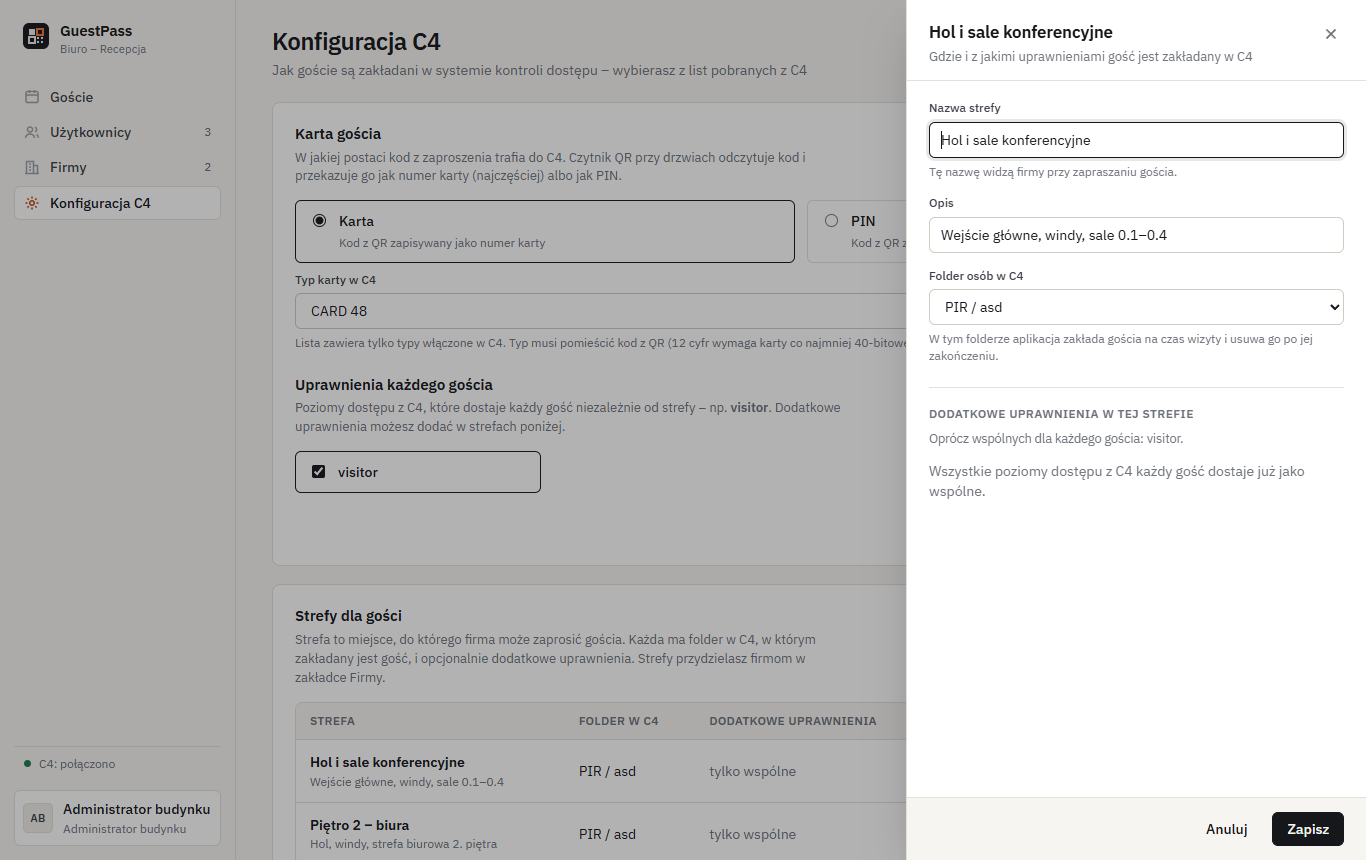
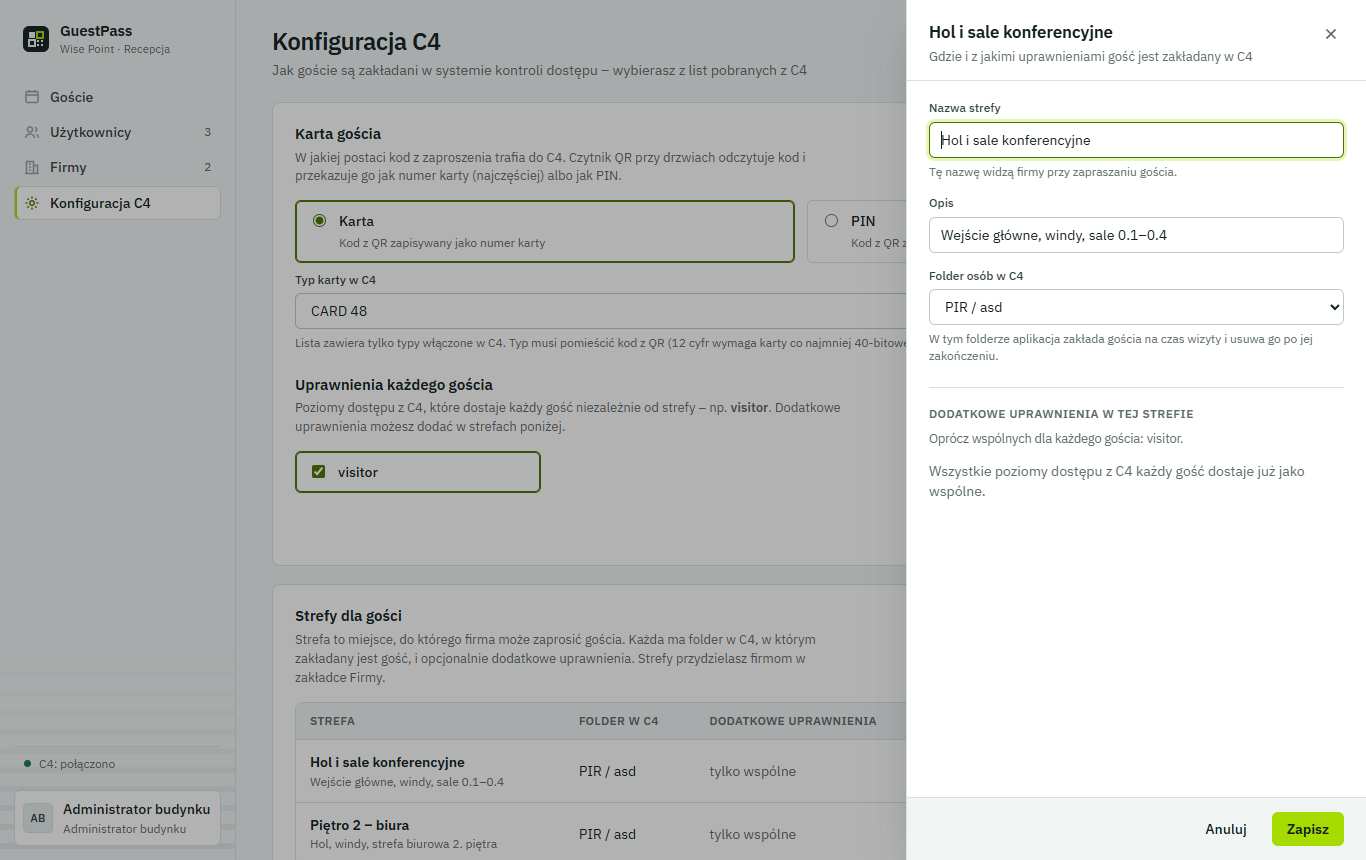
Wyglad inspirowany biurowcem Wise Point: motyw jasny i ciemny
- Paleta z budynku i marki: zielonkawo-szare szklo lukowej elewacji, jasny kamien,
  srebrne aluminium, limonkowy akcent Wise Point (#A6DB00). Jasny = "dzien",
  ciemny = "zmierzch" (granat szkla, bursztynowe okna). Kontrast WCAG AA w obu.
- Przelacznik motywu (Jasny / Ciemny / Jak w systemie) w menu konta i na ekranie
  logowania, zapamietywany w przegladarce, stosowany przed narysowaniem strony.
- Ekran logowania: niebo dnia/zmierzchu i wlasna ilustracja SVG lukowej fasady
  (pasy okien, kolumny parteru) zamiast zdjec objetych prawami autorskimi.
- Przyciski usuwania/cofniecia dostepu w osobnym stylu destrukcyjnym.
- Poprawki widoku mobilnego (tabele przewijane, dekoracja paska bocznego).
- SiteName: "Wise Point · Recepcja"; zrzuty ekranu w dokumentacji odswiezone.

diff --git a/src/C4GuestPass.Web/wwwroot/app.css b/src/C4GuestPass.Web/wwwroot/app.css
@@ -1,4 +1,7 @@
-/* C4 GuestPass – interfejs recepcji / najemców */
+/* C4 GuestPass – interfejs recepcji / najemców
+   Motyw inspirowany biurowcem Wise Point (al. Jana Pawła II 17, Warszawa): zielonkawo-szare szkło łukowej
+   elewacji, srebrne aluminium, jasny kamień, limonkowy akcent marki. Jasny = „dzień”, ciemny = „zmierzch”.
+   Wybór: data-theme="light|dark" na <html> (przełącznik w menu konta), bez atrybutu – ustawienie systemu. */
 @font-face{font-family:Plex;font-weight:400;font-display:swap;src:url(fonts/ibm-plex-sans-latin-400-normal.woff2) format("woff2");unicode-range:U+0000-00FF,U+2000-206F,U+20AC,U+2122}
 @font-face{font-family:Plex;font-weight:400;font-display:swap;src:url(fonts/ibm-plex-sans-latin-ext-400-normal.woff2) format("woff2");unicode-range:U+0100-024F,U+1E00-1EFF}
 @font-face{font-family:Plex;font-weight:500;font-display:swap;src:url(fonts/ibm-plex-sans-latin-500-normal.woff2) format("woff2");unicode-range:U+0000-00FF,U+2000-206F,U+20AC,U+2122}
@@ -9,18 +12,32 @@
 @font-face{font-family:PlexMono;font-weight:500;font-display:swap;src:url(fonts/ibm-plex-mono-latin-ext-500-normal.woff2) format("woff2");unicode-range:U+0100-024F}
 
 :root{
-  --paper:#f6f5f1;--surface:#fff;--sunken:#efede7;--ink:#15171b;--ink-2:#3b3f46;--muted:#6d7179;--faint:#9a9da3;
-  --line:#e3e0d8;--line-strong:#cfcbc0;--accent:#c2410c;--accent-ink:#fff;--accent-soft:#fbeee6;
-  --ok:#1f7a4d;--ok-soft:#e6f2ea;--wait:#9a5b00;--wait-soft:#f8efdc;--bad:#b42318;--bad-soft:#fbe9e7;--off:#7b7f86;
-  --shadow:0 18px 50px -12px rgba(20,22,26,.28);--r:6px;
+  --paper:#f0f4f3;--surface:#fff;--sunken:#e5ecea;--ink:#13201f;--ink-2:#33423f;--muted:#5d6c69;--faint:#93a19e;
+  --line:#d8e1df;--line-strong:#bccac6;--accent:#4a7300;--accent-ink:#fff;--accent-soft:#edf6d2;
+  --brand:#a6db00;--brand-hover:#97c800;--brand-ink:#13201f;
+  --ok:#17785a;--ok-soft:#e1f1ea;--wait:#946000;--wait-soft:#f8eed9;--bad:#b42318;--bad-soft:#fbe9e7;--off:#7a8885;
+  --glass:#9fbcbb;--glass-band:#c6dbd9;--glass-line:#7f9e9d;--stone:#eef0ec;--stone-win:#8fa7a8;--metal:#c3cdcc;--lit:#e7f2f1;
+  --sky-1:#0c3f8a;--sky-2:#1f63b8;--sky-3:#6aa2dc;
+  --shadow:0 18px 50px -12px rgba(19,32,31,.25);--r:6px;
   --sans:Plex,"IBM Plex Sans","Segoe UI",system-ui,sans-serif;--mono:PlexMono,"IBM Plex Mono",ui-monospace,Consolas,monospace;
   color-scheme:light;
 }
-@media (prefers-color-scheme:dark){:root{
-  --paper:#0f1012;--surface:#17191c;--sunken:#1d2024;--ink:#eceae5;--ink-2:#c9c7c1;--muted:#979aa0;--faint:#6c7076;
-  --line:#2a2d32;--line-strong:#3a3e44;--accent:#f0773a;--accent-ink:#1a0d05;--accent-soft:#2e1b10;
-  --ok:#5cc28b;--ok-soft:#14261c;--wait:#e3a948;--wait-soft:#2a210f;--bad:#f2837a;--bad-soft:#2d1614;--off:#8b8f95;
-  --shadow:0 18px 50px -12px rgba(0,0,0,.6);color-scheme:dark}}
+:root[data-theme=dark]{
+  --paper:#0a1315;--surface:#101c1f;--sunken:#152428;--ink:#e3ecea;--ink-2:#bacac7;--muted:#869996;--faint:#5b6e6b;
+  --line:#1d2e32;--line-strong:#2b4146;--accent:#b8e62a;--accent-ink:#0a1315;--accent-soft:#1c2a0b;
+  --brand:#a6db00;--brand-hover:#b8e62a;--brand-ink:#0a1315;
+  --ok:#3fc495;--ok-soft:#10261f;--wait:#f2b04c;--wait-soft:#2b2111;--bad:#ff8a7a;--bad-soft:#2e1714;--off:#7d8f8c;
+  --glass:#16343c;--glass-band:#21505a;--glass-line:#0d2228;--stone:#25363a;--stone-win:#0f1d20;--metal:#3a4c50;--lit:#f2b04c;
+  --sky-1:#0b1838;--sky-2:#3a2c5c;--sky-3:#c2607a;
+  --shadow:0 18px 50px -12px rgba(0,0,0,.65);color-scheme:dark}
+@media (prefers-color-scheme:dark){:root:not([data-theme=light]){
+  --paper:#0a1315;--surface:#101c1f;--sunken:#152428;--ink:#e3ecea;--ink-2:#bacac7;--muted:#869996;--faint:#5b6e6b;
+  --line:#1d2e32;--line-strong:#2b4146;--accent:#b8e62a;--accent-ink:#0a1315;--accent-soft:#1c2a0b;
+  --brand:#a6db00;--brand-hover:#b8e62a;--brand-ink:#0a1315;
+  --ok:#3fc495;--ok-soft:#10261f;--wait:#f2b04c;--wait-soft:#2b2111;--bad:#ff8a7a;--bad-soft:#2e1714;--off:#7d8f8c;
+  --glass:#16343c;--glass-band:#21505a;--glass-line:#0d2228;--stone:#25363a;--stone-win:#0f1d20;--metal:#3a4c50;--lit:#f2b04c;
+  --sky-1:#0b1838;--sky-2:#3a2c5c;--sky-3:#c2607a;
+  --shadow:0 18px 50px -12px rgba(0,0,0,.65);color-scheme:dark}}
 
 *{box-sizing:border-box}
 html,body{height:100%}
@@ -34,15 +51,21 @@ a{color:inherit}
 
 /* ---------- shell ---------- */
 .shell{display:grid;grid-template-columns:236px 1fr;min-height:100vh}
-.side{position:sticky;top:0;height:100vh;display:flex;flex-direction:column;border-right:1px solid var(--line);padding:20px 14px 14px;background:var(--paper)}
+.side{position:sticky;top:0;height:100vh;display:flex;flex-direction:column;border-right:1px solid var(--line);padding:20px 14px 14px;background:var(--paper);
+  /* motyw elewacji: poziome pasy okien wygasające ku górze */
+  background-image:repeating-linear-gradient(180deg,transparent 0 13px,color-mix(in srgb,var(--glass) 22%,transparent) 13px 19px);
+  background-size:100% 220px;background-repeat:no-repeat;background-position:bottom}
+.side::before{content:"";position:absolute;inset:auto 0 0 0;height:220px;pointer-events:none;background:linear-gradient(180deg,var(--paper),transparent)}
+.side>*{position:relative}
 .brand{display:flex;align-items:center;gap:10px;padding:0 8px 22px;font-weight:600;font-size:15px;letter-spacing:-.01em}
 .brand svg{flex:none}
+.logo .t{fill:var(--ink)}.logo .f{fill:var(--paper)}.logo .s{stroke:var(--paper)}.logo .a{stroke:var(--brand)}
 .brand small{display:block;font-weight:400;font-size:11px;color:var(--muted);letter-spacing:.02em}
 .nav{display:flex;flex-direction:column;gap:1px}
 .nav a{display:flex;align-items:center;gap:10px;padding:7px 10px;border-radius:var(--r);text-decoration:none;color:var(--ink-2);font-weight:500}
 .nav a svg{color:var(--faint)}
 .nav a:hover{background:var(--sunken)}
-.nav a[aria-current=page]{background:var(--surface);color:var(--ink);box-shadow:inset 0 0 0 1px var(--line)}
+.nav a[aria-current=page]{background:var(--surface);color:var(--ink);box-shadow:inset 0 0 0 1px var(--line),inset 3px 0 0 var(--brand)}
 .nav a[aria-current=page] svg{color:var(--accent)}
 .nav .count{margin-left:auto;font:500 11px var(--mono);color:var(--muted)}
 .side-foot{margin-top:auto;display:flex;flex-direction:column;gap:10px}
@@ -65,9 +88,12 @@ main{min-width:0;padding:28px 36px 60px;max-width:1240px}
 /* ---------- controls ---------- */
 .btn{display:inline-flex;align-items:center;gap:8px;height:34px;padding:0 14px;border-radius:var(--r);border:1px solid var(--line-strong);background:var(--surface);font-weight:500;cursor:pointer;white-space:nowrap}
 .btn:hover{background:var(--sunken)}
-.btn.primary{background:var(--ink);border-color:var(--ink);color:var(--paper)}
-.btn.primary:hover{background:var(--ink-2)}
+.btn.primary{background:var(--brand);border-color:var(--brand);color:var(--brand-ink);font-weight:600}
+.btn.primary:hover{background:var(--brand-hover);border-color:var(--brand-hover)}
 .btn.accent{background:var(--accent);border-color:var(--accent);color:var(--accent-ink)}
+.btn.destructive{background:var(--bad);border-color:var(--bad);color:#fff}
+:root[data-theme=dark] .btn.destructive{color:#2a0d09}
+@media (prefers-color-scheme:dark){:root:not([data-theme=light]) .btn.destructive{color:#2a0d09}}
 .btn.ghost{border-color:transparent;background:transparent}.btn.ghost:hover{background:var(--sunken)}
 .btn.sm{height:28px;padding:0 10px;font-size:13px}
 .btn.danger{color:var(--bad)}
@@ -81,13 +107,13 @@ kbd{font:500 11px var(--mono);padding:1px 5px;border-radius:4px;border:1px solid
 .field .hint{font-size:12px;color:var(--muted)}
 .input,select.input,textarea.input{height:36px;padding:0 11px;border-radius:var(--r);border:1px solid var(--line-strong);background:var(--surface);width:100%;min-width:0}
 textarea.input{height:auto;padding:8px 11px}
-.input:focus{outline:none;border-color:var(--ink);box-shadow:0 0 0 3px color-mix(in srgb,var(--ink) 10%,transparent)}
+.input:focus{outline:none;border-color:var(--accent);box-shadow:0 0 0 3px color-mix(in srgb,var(--brand) 28%,transparent)}
 .input::placeholder{color:var(--faint)}
 .grid2{display:grid;grid-template-columns:1fr 1fr;gap:0 12px}
 .grid2>*{min-width:0}
 .check{display:flex;align-items:flex-start;gap:10px;padding:10px 12px;border:1px solid var(--line);border-radius:var(--r);margin-bottom:8px;cursor:pointer;background:var(--surface)}
-.check:has(input:checked){border-color:var(--ink)}
-.check input{margin-top:3px;accent-color:var(--ink)}
+.check:has(input:checked){border-color:var(--accent);box-shadow:inset 0 0 0 1px var(--accent)}
+.check input{margin-top:3px;accent-color:var(--accent)}
 .check b{font-weight:500;display:block}.check span{font-size:12px;color:var(--muted)}
 
 .seg{display:inline-flex;padding:2px;border-radius:7px;background:var(--sunken);border:1px solid var(--line)}
@@ -97,7 +123,7 @@ textarea.input{height:auto;padding:8px 11px}
 
 .chips{display:flex;flex-wrap:wrap;gap:6px}
 .chip{display:inline-flex;align-items:center;height:26px;padding:0 10px;border-radius:99px;border:1px solid var(--line-strong);background:var(--surface);cursor:pointer;font-size:12px;font-weight:500;color:var(--ink-2)}
-.chip:hover{border-color:var(--ink)}
+.chip:hover{border-color:var(--accent);color:var(--accent)}
 .tag{display:inline-flex;align-items:center;height:20px;padding:0 7px;border-radius:4px;background:var(--sunken);font-size:11.5px;font-weight:500;color:var(--ink-2);white-space:nowrap}
 .tag.role-BuildingAdmin{background:var(--accent-soft);color:var(--accent)}
 
@@ -188,21 +214,30 @@ dialog .d-foot{display:flex;justify-content:flex-end;gap:8px;padding:12px 22px;b
 
 /* ---------- toast ---------- */
 .toasts{position:fixed;left:252px;bottom:20px;z-index:50;display:flex;flex-direction:column;gap:8px}
-.toast{display:flex;align-items:center;gap:10px;padding:10px 14px;border-radius:7px;background:var(--ink);color:var(--paper);box-shadow:var(--shadow);font-size:13px;animation:tin .18s ease-out}
+.toast{display:flex;align-items:center;gap:10px;padding:10px 14px;border-radius:7px;background:var(--ink);color:var(--paper);box-shadow:var(--shadow),inset 3px 0 0 var(--brand);font-size:13px;animation:tin .18s ease-out}
 .toast.bad{background:var(--bad);color:#fff}
 @keyframes tin{from{transform:translateY(6px);opacity:0}}
 
 /* ---------- login ---------- */
 .auth{display:grid;grid-template-columns:minmax(0,1.1fr) minmax(380px,.9fr);min-height:100vh}
-.auth .pitch{position:relative;overflow:hidden;background:#15171b;color:#eceae5;padding:44px 56px;display:flex;flex-direction:column}
-.auth .pitch .brand{padding:0;color:#eceae5}.auth .pitch .brand small{color:#9a9da3}
-.auth .pitch h1{margin:auto 0 18px;max-width:520px;font-size:clamp(28px,3.4vw,44px);line-height:1.08;font-weight:600;letter-spacing:-.035em}
-.auth .pitch h1 em{font-style:normal;color:#f0773a}
-.auth .pitch p{margin:0;max-width:440px;color:#a9acb1;font-size:15px}
-.auth .pitch .steps{display:flex;gap:28px;margin-top:36px;padding-top:20px;border-top:1px solid #2c2f34;font-size:13px;color:#a9acb1}
-.auth .pitch .steps b{display:block;font:500 12px var(--mono);color:#eceae5;margin-bottom:3px}
-.auth .pitch .qrart{position:absolute;right:-40px;top:40px;opacity:.09}
-.auth .form{display:flex;align-items:center;justify-content:center;padding:40px 24px}
+.auth .pitch{position:relative;overflow:hidden;color:#f2f6f5;padding:44px 56px;display:flex;flex-direction:column;
+  background:linear-gradient(180deg,var(--sky-1) 0%,var(--sky-2) 55%,var(--sky-3) 100%)}
+.auth .pitch>*{position:relative;z-index:1}
+.auth .pitch .brand{padding:0;color:#f2f6f5}.auth .pitch .brand small{color:rgba(242,246,245,.7)}
+.auth .pitch h1{margin:auto 0 18px;max-width:440px;font-size:clamp(28px,3.4vw,44px);line-height:1.08;font-weight:600;letter-spacing:-.035em;text-shadow:0 2px 24px rgba(0,0,0,.25)}
+.auth .pitch h1 em{font-style:normal;color:var(--brand)}
+.auth .pitch p{margin:0;max-width:400px;color:rgba(242,246,245,.82);font-size:15px}
+.auth .pitch .steps{display:flex;gap:28px;margin-top:36px;padding-top:20px;border-top:1px solid rgba(242,246,245,.22);font-size:13px;color:rgba(242,246,245,.8)}
+.auth .pitch .steps b{display:block;font:500 12px var(--mono);color:var(--brand);margin-bottom:3px}
+.auth .pitch .facade{position:absolute;z-index:0;right:-70px;bottom:0;height:78%;width:auto;max-width:62%}
+.auth .pitch::after{content:"";position:absolute;inset:0;z-index:0;
+  background:linear-gradient(90deg,rgba(4,10,20,.62) 0%,rgba(4,10,20,.42) 38%,rgba(4,10,20,.08) 62%,transparent 78%),
+             linear-gradient(0deg,rgba(4,10,20,.35) 0%,transparent 45%)}
+.facade .glass{fill:var(--glass)}.facade .band{fill:var(--glass-band)}.facade .mull{stroke:var(--glass-line)}
+.facade .stone{fill:var(--stone)}.facade .swin{fill:var(--stone-win)}.facade .metal{fill:var(--metal)}
+.facade .lit{fill:var(--lit)}.facade .col{fill:var(--metal)}.facade .ground{fill:rgba(0,0,0,.28)}.facade .dot{fill:var(--brand)}
+.theme-switch{position:absolute;top:16px;right:16px;z-index:2}
+.auth .form{position:relative;display:flex;align-items:center;justify-content:center;padding:40px 24px}
 .auth .form>div{width:100%;max-width:340px}
 .auth .form h2{margin:0 0 4px;font-size:22px;font-weight:600;letter-spacing:-.02em}
 .auth .form p.lead{margin:0 0 26px;color:var(--muted)}
@@ -211,7 +246,9 @@ dialog .d-foot{display:flex;justify-content:flex-end;gap:8px;padding:12px 22px;b
 @media (max-width:1100px){.vrow{grid-template-columns:96px minmax(0,1fr) 130px auto}.vrow .where{display:none}}
 @media (max-width:860px){
   .shell{grid-template-columns:1fr}
-  .side{position:static;height:auto;flex-direction:row;align-items:center;padding:10px 12px;border-right:0;border-bottom:1px solid var(--line);gap:8px;overflow-x:auto}
+  .side{position:static;height:auto;flex-direction:row;align-items:center;padding:10px 12px;border-right:0;border-bottom:1px solid var(--line);gap:8px;overflow-x:auto;background-image:none}
+  .side::before{display:none}
+  .table{display:block;overflow-x:auto;white-space:nowrap}
   .brand{padding:0 8px 0 0}.brand small{display:none}
   .nav{flex-direction:row}.nav .count{display:none}
   .side-foot{margin:0 0 0 auto;flex-direction:row}.c4state{display:none}.me .who{display:none}.me{padding:4px;border:0}

diff --git a/src/C4GuestPass.Web/wwwroot/login.html b/src/C4GuestPass.Web/wwwroot/login.html
@@ -1,11 +1,11 @@
 <!doctype html>
 <html lang="pl"><head><meta charset="utf-8"><meta name="viewport" content="width=device-width,initial-scale=1">
-<title>Logowanie · GuestPass</title><link rel="icon" href="logo.svg"><link rel="stylesheet" href="app.css"></head>
+<title>Logowanie · GuestPass</title><link rel="icon" href="logo.svg"><script src="theme.js"></script><link rel="stylesheet" href="app.css"></head>
 <body>
 <div class="auth">
   <section class="pitch">
-    <div class="brand"><img src="logo-light.svg" width="28" height="28" alt=""><div>GuestPass<small>dla Gamanet C4</small></div></div>
-    <svg class="qrart" id="qrart" width="560" height="560" viewBox="0 0 28 28" aria-hidden="true"></svg>
+    <svg class="facade" id="facade" viewBox="0 0 420 560" preserveAspectRatio="xMaxYMax meet" aria-hidden="true"></svg>
+    <div class="brand"><img src="logo-light.svg" width="28" height="28" alt=""><div>GuestPass<small>Wise Point · al. Jana Pawła II 17</small></div></div>
     <h1>Goście wchodzą <em>kodem QR</em>.<br>Bez plastikowych kart.</h1>
     <p>Zaproszenie wysłane z biura trafia do gościa e-mailem. Kod otwiera tylko przydzielone strefy i tylko na czas wizyty — potem znika z systemu kontroli dostępu.</p>
     <div class="steps">
@@ -15,6 +15,7 @@
     </div>
   </section>
   <section class="form">
+    <div class="seg theme-switch" role="group" aria-label="Motyw" id="theme"></div>
     <div>
       <h2>Zaloguj się</h2>
       <p class="lead">Konto otrzymasz od administratora swojej firmy.</p>
@@ -28,15 +29,39 @@
   </section>
 </div>
 <script>
-(() => { // dekoracyjny „kod” – deterministyczny wzór, nie prawdziwy QR
-  const s = document.getElementById('qrart'); let x = 7, out = '';
-  const finder = (a, b) => `<path d="M${a} ${b}h7v7h-7zM${a+1} ${b+1}v5h5v-5z M${a+2} ${b+2}h3v3h-3z" fill="#fff" fill-rule="evenodd"/>`;
-  out += finder(0, 0) + finder(21, 0) + finder(0, 21);
-  for (let i = 0; i < 28; i++) for (let j = 0; j < 28; j++) {
-    if ((i < 8 && j < 8) || (i > 19 && j < 8) || (i < 8 && j > 19)) continue;
-    x = (x * 1103515245 + 12345) & 0x7fffffff; if (x % 7 < 3) out += `<rect x="${i}" y="${j}" width="1" height="1" fill="#fff"/>`;
+(() => { // ilustracja inspirowana Wise Point: łukowa szklana fasada z pasami okien, kamienne skrzydło, kolumny parteru
+  const svg = document.getElementById('facade');
+  let seed = 11; const rnd = () => (seed = (seed * 1103515245 + 12345) & 0x7fffffff) / 0x7fffffff;
+  const glass = 'M40 64 Q170 66 300 118 L300 470 L40 470 Z';
+  let out = `<defs><clipPath id="g"><path d="${glass}"/></clipPath></defs>`;
+  out += '<rect class="ground" x="0" y="540" width="420" height="20"/>';
+  // kamienne skrzydło z rytmem okien
+  out += '<rect class="stone" x="250" y="228" width="150" height="312"/>';
+  for (let y = 244; y < 520; y += 24) for (let x = 306; x < 392; x += 22)
+    out += `<rect class="${rnd() < .22 ? 'lit' : 'swin'}" x="${x}" y="${y}" width="13" height="11"/>`;
+  // dach techniczny z lamelami
+  out += '<rect class="metal" x="168" y="74" width="164" height="54"/>';
+  for (let x = 172; x < 330; x += 6) out += `<rect class="mull" x="${x}" y="78" width="1" height="46" style="fill:var(--glass-line)"/>`;
+  // szkło: tło, poziome pasy, słupki zagęszczające się ku łukowi
+  out += `<path class="glass" d="${glass}"/><g clip-path="url(#g)">`;
+  for (let y = 84; y < 470; y += 20) {
+    out += `<rect class="band" x="40" y="${y}" width="260" height="9"/>`;
+    for (let x = 44; x < 296; x += 14) if (rnd() < .16) out += `<rect class="lit" x="${x}" y="${y}" width="12" height="9"/>`;
   }
-  s.innerHTML = out;
+  for (let t = 0, x = 40; x < 300; t++) { x += 6 + t * .9; out += `<line class="mull" x1="${x}" y1="60" x2="${x}" y2="470" stroke-width="1"/>`; }
+  out += '</g>';
+  // parter: cofnięty hol i smukłe kolumny
+  out += '<rect class="swin" x="118" y="470" width="132" height="70"/>';
+  for (const x of [58, 104, 162, 222]) out += `<rect class="col" x="${x}" y="470" width="9" height="70" rx="2"/>`;
+  out += '<circle class="dot" cx="40" cy="64" r="7"/>';
+  svg.innerHTML = out;
+})();
+(() => { // przełącznik motywu
+  const box = document.getElementById('theme');
+  const draw = () => box.innerHTML = ['light', 'dark', 'system'].map(t =>
+    `<button type="button" data-t="${t}" aria-pressed="${gpTheme.get() === t}">${gpTheme.labels[t] === 'Jak w systemie' ? 'Auto' : gpTheme.labels[t]}</button>`).join('');
+  box.addEventListener('click', e => { const b = e.target.closest('[data-t]'); if (b) { gpTheme.set(b.dataset.t); draw(); } });
+  draw();
 })();
 document.getElementById('f').addEventListener('submit', async e => {
   e.preventDefault();

diff --git a/src/C4GuestPass.Web/wwwroot/app.js b/src/C4GuestPass.Web/wwwroot/app.js
@@ -21,6 +21,11 @@ const I = {
   out: '<svg width="15" height="15" viewBox="0 0 16 16" fill="none" stroke="currentColor" stroke-width="1.4"><path d="M6 2.5H3v11h3M10 5l3 3-3 3M13 8H6"/></svg>',
   gear: '<svg width="16" height="16" viewBox="0 0 16 16" fill="none" stroke="currentColor" stroke-width="1.5"><circle cx="8" cy="8" r="2.2"/><path d="M8 1.5v2M8 12.5v2M1.5 8h2M12.5 8h2M3.4 3.4l1.4 1.4M11.2 11.2l1.4 1.4M3.4 12.6l1.4-1.4M11.2 4.8l1.4-1.4"/></svg>',
   trash: '<svg width="15" height="15" viewBox="0 0 16 16" fill="none" stroke="currentColor" stroke-width="1.4"><path d="M2.5 4h11M6 4V2.5h4V4M4 4l.7 9.5h6.6L12 4"/></svg>',
+  theme: {
+    light: '<svg width="15" height="15" viewBox="0 0 16 16" fill="none" stroke="currentColor" stroke-width="1.4"><circle cx="8" cy="8" r="3"/><path d="M8 1v2M8 13v2M1 8h2M13 8h2M3 3l1.4 1.4M11.6 11.6L13 13M3 13l1.4-1.4M11.6 4.4L13 3"/></svg>',
+    dark: '<svg width="15" height="15" viewBox="0 0 16 16" fill="none" stroke="currentColor" stroke-width="1.4"><path d="M13.5 9.5A5.5 5.5 0 0 1 6.5 2.5a5.5 5.5 0 1 0 7 7z"/></svg>',
+    system: '<svg width="15" height="15" viewBox="0 0 16 16" fill="none" stroke="currentColor" stroke-width="1.4"><rect x="1.5" y="2.5" width="13" height="9" rx="1"/><path d="M5.5 14h5M8 11.5V14"/></svg>',
+  },
   copy: '<svg width="15" height="15" viewBox="0 0 16 16" fill="none" stroke="currentColor" stroke-width="1.4"><rect x="5" y="5" width="9" height="9" rx="1"/><path d="M11 5V2H2v9h3"/></svg>',
 };
 
@@ -271,7 +276,7 @@ async function visitAction(act, id, anchor) {
 function confirmRevoke(v) {
   openDialog(`<div class="d-body"><h2>Cofnąć dostęp?</h2>
     <p class="muted">Kod gościa <b>${esc(v.firstName)} ${esc(v.lastName)}</b> zostanie natychmiast usunięty z systemu C4 i przestanie otwierać drzwi. Tej operacji nie można odwrócić – w razie potrzeby wyślij nowe zaproszenie.</p></div>
-    <div class="d-foot"><button class="btn ghost" data-close>Anuluj</button><button class="btn accent" id="ok">Cofnij dostęp</button></div>`,
+    <div class="d-foot"><button class="btn ghost" data-close>Anuluj</button><button class="btn destructive" id="ok">Cofnij dostęp</button></div>`,
     dlg => $('#ok', dlg).onclick = () => { dlg.close(); visitAction('revoke', v.id); });
 }
 
@@ -659,7 +664,7 @@ function openZone(z) {
 function confirmDeleteZone(z) {
   openDialog(`<div class="d-body"><h2>Usunąć strefę?</h2>
     <p class="muted">Strefa <b>${esc(z.name)}</b> zniknie z listy przy zapraszaniu gości. Folderu i uprawnień w C4 to nie zmienia.</p></div>
-    <div class="d-foot"><button class="btn ghost" data-close>Anuluj</button><button class="btn accent" id="ok">Usuń</button></div>`,
+    <div class="d-foot"><button class="btn ghost" data-close>Anuluj</button><button class="btn destructive" id="ok">Usuń</button></div>`,
     dlg => $('#ok', dlg).onclick = async () => {
       dlg.close();
       try { await api(`/zones/${encodeURIComponent(z.id)}`, { method: 'DELETE' }); S.zones = S.zones.filter(x => x.id !== z.id); toast('Strefa usunięta'); await refreshHealth(); }
@@ -686,7 +691,10 @@ async function submitPassword(root) {
 }
 
 function openAccountMenu(anchor) {
+  const cur = gpTheme.get();
   openMenu(anchor, [
+    ...['light', 'dark', 'system'].map(t => ({ label: `Motyw: ${gpTheme.labels[t]}${t === cur ? '  ✓' : ''}`, icon: I.theme[t], run: () => gpTheme.set(t) })),
+    '-',
     { label: 'Zmień hasło', icon: I.key, run: () => openDialog(`<div class="d-body"><h2>Zmiana hasła</h2>${changePasswordForm(false)}</div>
         <div class="d-foot"><button class="btn ghost" data-close>Anuluj</button><button class="btn primary" id="ok">Zmień hasło</button></div>`,
         dlg => $('#ok', dlg).onclick = async () => { if (await submitPassword(dlg)) { dlg.close(); toast('Hasło zmienione'); } }) },

diff --git a/src/C4GuestPass.Web/wwwroot/index.html b/src/C4GuestPass.Web/wwwroot/index.html
@@ -1,10 +1,10 @@
 <!doctype html>
 <html lang="pl"><head><meta charset="utf-8"><meta name="viewport" content="width=device-width,initial-scale=1">
-<title>GuestPass</title><link rel="icon" href="logo.svg"><link rel="stylesheet" href="app.css"></head>
+<title>GuestPass</title><link rel="icon" href="logo.svg"><script src="theme.js"></script><link rel="stylesheet" href="app.css"></head>
 <body>
 <div class="shell" id="shell" hidden>
   <aside class="side">
-    <div class="brand"><picture><source srcset="logo-light.svg" media="(prefers-color-scheme: dark)"><img src="logo.svg" width="28" height="28" alt=""></picture><div>GuestPass<small id="siteName"></small></div></div>
+    <div class="brand"><svg class="logo" width="28" height="28" viewBox="0 0 28 28" fill="none" aria-hidden="true"><rect x="1" y="1" width="26" height="26" rx="6" class="t"/><path d="M7 7h6v6H7zM15 15h2v2h-2zM19 19h2v2h-2zM15 19h2v2h-2zM19 15h2v2h-2z" class="f"/><path d="M15 7h6v6h-6z" class="a" stroke-width="2"/><path d="M7 15h6v6H7z" class="s" stroke-width="2"/></svg><div>GuestPass<small id="siteName"></small></div></div>
     <nav class="nav" id="nav"></nav>
     <div class="side-foot">
       <div class="c4state" id="c4state" title=""><span class="dot"></span><span>C4: sprawdzanie…</span></div>

diff --git a/src/C4GuestPass.Web/wwwroot/theme.js b/src/C4GuestPass.Web/wwwroot/theme.js
@@ -1,0 +1,16 @@
+'use strict';
+/* Motyw jasny / ciemny / systemowy – ładowany w <head>, zanim strona się narysuje (bez mignięcia). */
+(() => {
+  const KEY = 'gp-theme', root = document.documentElement;
+  const apply = t => { if (t === 'light' || t === 'dark') root.dataset.theme = t; else delete root.dataset.theme; };
+  const get = () => { try { return localStorage.getItem(KEY) || 'system'; } catch { return 'system'; } };
+  apply(get());
+  window.gpTheme = {
+    get,
+    set(t) {
+      try { if (t === 'system') localStorage.removeItem(KEY); else localStorage.setItem(KEY, t); } catch { /* tryb prywatny */ }
+      apply(t);
+    },
+    labels: { light: 'Jasny', dark: 'Ciemny', system: 'Jak w systemie' },
+  };
+})();

diff --git a/docs/INSTRUKCJA-ADMINISTRATORA.md b/docs/INSTRUKCJA-ADMINISTRATORA.md
@@ -131,6 +131,18 @@ Nowe konto dostaje **hasło tymczasowe** (pokazywane raz) – przy pierwszym log
 * **⋯ → Cofnij dostęp** – natychmiast usuwa gościa z C4 (np. zgubiony lub przekazany kod).
 * **⋯ → Pokaż kod QR / Wyślij e-mail ponownie** – gdy gość nie ma maila.
 
+### Wygląd: motyw jasny i ciemny
+
+Wygląd aplikacji nawiązuje do budynku Wise Point: zielonkawo-szare szkło łukowej elewacji, jasny kamień
+i limonkowy akcent marki. Są dwa motywy – **jasny** („dzień”) i **ciemny** („zmierzch”, z bursztynowym
+światłem okien). Każdy użytkownik wybiera motyw w menu swojego konta (lewy dolny róg): *Jasny*, *Ciemny*
+albo *Jak w systemie*; na ekranie logowania – przełącznikiem w prawym górnym rogu. Wybór zapamiętuje przeglądarka.
+
+| Jasny | Ciemny |
+|---|---|
+| ![Logowanie – jasny](screens/wp-light-login.png) | ![Logowanie – ciemny](screens/wp-dark-login.png) |
+| ![Konfiguracja – jasny](screens/wp-light-konfiguracja.png) | ![Konfiguracja – ciemny](screens/wp-dark-konfiguracja.png) |
+
 ## 8. Gdy coś nie działa
 
 | Objaw | Przyczyna | Co zrobić |
